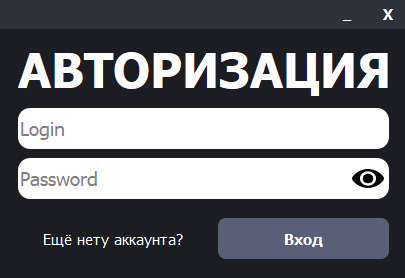
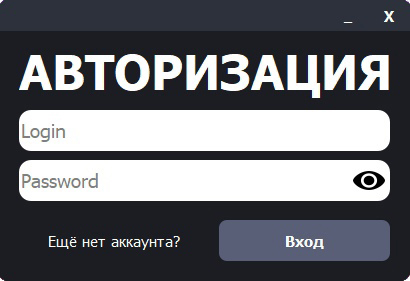
Fixed Bug

diff --git a/VK Bot/Authorization_Window/authorization_window.py b/VK Bot/Authorization_Window/authorization_window.py
@@ -1,6 +1,6 @@
 # -*- coding: utf-8 -*-
 
-# Form implementation generated from reading ui file 'auth.ui'
+# Form implementation generated from reading ui file 'authorization_window.ui'
 #
 # Created by: PyQt5 UI code generator 5.15.4
 #
@@ -217,4 +217,4 @@ class Ui_MainWindow(object):
         self.LoginLineEdit.setPlaceholderText(_translate("MainWindow", "Login"))
         self.PasswordLineEdit.setPlaceholderText(_translate("MainWindow", "Password"))
         self.AuthorizationButton.setText(_translate("MainWindow", "Вход"))
-        self.AskButton.setText(_translate("MainWindow", "Eщё нету аккаунта?"))
+        self.AskButton.setText(_translate("MainWindow", "Eщё нет аккаунта?"))
